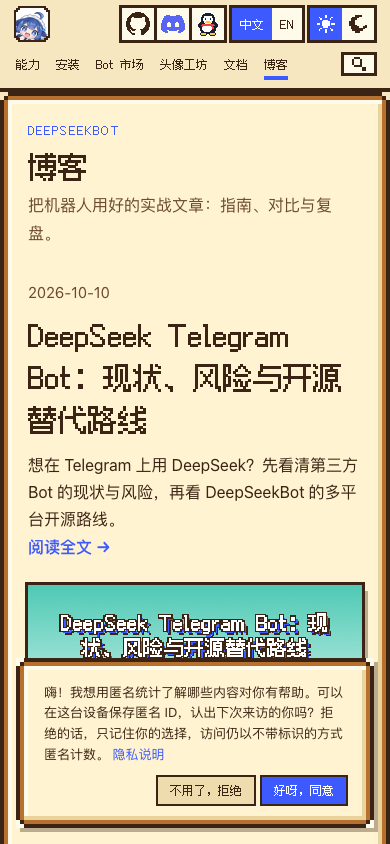
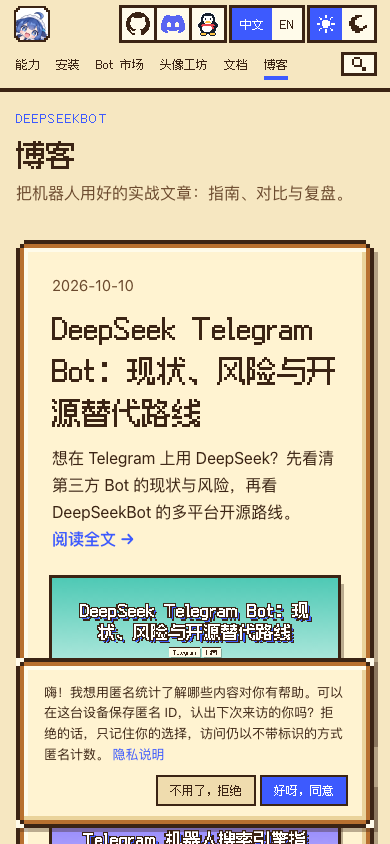
Blog: second guide post, framed cards, deterministic hero order

Changed region(s): [[0.0, 0.0924, 1.0, 1.0], [0.1231, 0.955, 0.8923, 1.0]]

diff --git a/scripts/blog.ts b/scripts/blog.ts
@@ -134,7 +134,9 @@ export function readPosts(lang: Lang): Post[] {
   }
   return files
     .map((f) => parsePost(f.replace(/\.md$/, ''), readFileSync(`${dir}/${f}`, 'utf8')))
-    .toSorted((a, b) => (a.date < b.date ? 1 : -1));
+    .toSorted((a, b) =>
+      a.date !== b.date ? (a.date < b.date ? 1 : -1) : a.slug.localeCompare(b.slug),
+    );
 }
 
 /** Minutes to read: ~400 CJK characters or ~200 English words per minute. */
@@ -287,7 +289,7 @@ function shell(
 
 function card(lang: Lang, post: Post) {
   const cover = coverFor(lang, post.slug);
-  return `<li class="blog-card"><a href="${blogPostPath(lang, post.slug)}">${
+  return `<li class="blog-card frame"><a href="${blogPostPath(lang, post.slug)}">${
     cover
       ? `<img src="${cover}" alt="" loading="lazy" />`
       : `<span class="blog-card-fallback" aria-hidden="true"></span>`
@@ -299,7 +301,7 @@ function indexMain(lang: Lang, posts: Post[]) {
   const [hero, ...rest] = posts;
   const heroCover = hero ? coverFor(lang, hero.slug) : null;
   const heroBlock = hero
-    ? `<section class="blog-hero"><div><time datetime="${hero.date}">${hero.date}</time><h2><a href="${blogPostPath(lang, hero.slug)}">${escape(hero.title)}</a></h2><p>${escape(hero.description)}</p><p><a class="blog-readmore" href="${blogPostPath(lang, hero.slug)}">${t.readMore} →</a></p></div>${
+    ? `<section class="blog-hero frame"><div><time datetime="${hero.date}">${hero.date}</time><h2><a href="${blogPostPath(lang, hero.slug)}">${escape(hero.title)}</a></h2><p>${escape(hero.description)}</p><p><a class="blog-readmore" href="${blogPostPath(lang, hero.slug)}">${t.readMore} →</a></p></div>${
         heroCover
           ? `<a href="${blogPostPath(lang, hero.slug)}"><img src="${heroCover}" alt="" /></a>`
           : ''
@@ -311,7 +313,7 @@ function indexMain(lang: Lang, posts: Post[]) {
   void nav;
   return `<div class="blog-index-layout">
       <main id="main" class="docs-main">
-        <article class="docs-article frame">
+        <article class="docs-article">
           <p class="kicker">DeepSeekBot</p>
           <h1>${t.title}</h1>
           <p class="docs-lead">${t.lead}</p>
@@ -321,7 +323,7 @@ function indexMain(lang: Lang, posts: Post[]) {
           <ul class="blog-index">${posts
             .map(
               (p) =>
-                `<li><time datetime="${p.date}">${p.date}</time> · <a href="${blogPostPath(lang, p.slug)}">${escape(p.title)}</a><p>${escape(p.description)}</p></li>`,
+                `<li class="frame blog-index-row"><time datetime="${p.date}">${p.date}</time> · <a href="${blogPostPath(lang, p.slug)}">${escape(p.title)}</a><p>${escape(p.description)}</p></li>`,
             )
             .join('')}</ul>
         </article>

diff --git a/src/docs.css b/src/docs.css
@@ -917,3 +917,11 @@
   text-transform: uppercase;
   margin: 0 0 10px;
 }
+.blog-hero.frame,
+.blog-card.frame,
+.blog-index-row.frame {
+  padding: 20px 24px;
+}
+.blog-cards .blog-card a {
+  gap: 10px;
+}

diff --git a/content/blog/en/telegram-search-guide.md b/content/blog/en/telegram-search-guide.md
@@ -1,0 +1,32 @@
+---
+{
+  "title": "Telegram Search Engine Bots: Finding Anything with a Bot",
+  "description": "Telegram hides a whole layer of search-engine bots. This guide covers finding channels, files and answers with them, and dodging the traps.",
+  "date": "2026-10-10",
+  "tags": ["Telegram", "Guide"]
+}
+---
+
+Telegram is more than a messenger: it runs a whole layer of search-engine bots that find channels, groups, files and answers, each handled by a specialist bot.
+
+## Three kinds of bots
+
+- **Network search**: finds channels and groups across Telegram. Throw in keywords, get heat-ranked results.
+- **File retrieval**: finds documents, ebooks and installers. Stick to reputable veteran bots; do not add every newcomer.
+- **Q&A**: bots wired to large models, usable as a search engine when you want a one-line answer.
+
+## Find it in three steps
+
+1. Decide whether you want a channel, a file or an answer, then pick the right category.
+2. Rotate two or three keywords. If one search fails, rephrase instead of hammering the same bot.
+3. Read the pinned post and bio before joining; check size and format before downloading; cross-check answers with a second bot.
+
+## The avoid list
+
+- Anything asking for payment or prepayment first: block it.
+- Anything asking for your verification code or a click on a strange link: that is phishing, not service.
+- Anything named after a famous model with no official backing: treat it as an unknown third party.
+
+## Where DeepSeekBot fits
+
+DeepSeekBot is the open-source multi-platform bot setup, already running on WeChat, QQ, Lark, Slack and Discord: one bot identity with memory, scheduled work, and Git-inspectable records. Telegram support status is tracked in the open, and content discovery will be among its first capabilities there.

diff --git a/content/blog/zh/telegram-search-guide.md b/content/blog/zh/telegram-search-guide.md
@@ -1,0 +1,32 @@
+---
+{
+  "title": "Telegram 机器人搜索引擎指南：用 Bot 找到任何内容",
+  "description": "Telegram 藏着一整套机器人搜索引擎。这篇指南讲怎么用它们找频道、找文件、找答案，以及怎么避开坑。",
+  "date": "2026-10-10",
+  "tags": ["Telegram", "指南"]
+}
+---
+
+Telegram 不只是聊天软件，它里面跑着一整套机器人搜索引擎：找频道、找群组、找文件、找答案，都有专门的 Bot 干这个活。
+
+## 先分清三类机器人
+
+- **站内搜索类**：在 Telegram 全网里帮你找频道和群组，关键字一扔，结果按热度排好。
+- **文件检索类**：找文档、找电子书、找安装包，认准有口碑的老 Bot，别见新就加。
+- **问答类**：直连大模型的 Bot，当搜索引擎用，适合要一句话答案的场景。
+
+## 三步找到你要的
+
+1. 先想清楚你要的是频道、文件还是答案，选对类别再动手。
+2. 用两到三个关键词轮着搜，一次搜不到就换词，别跟一个 Bot 死磕。
+3. 进频道先看置顶和简介，文件先看大小和格式，答案多问两个 Bot 交叉验证。
+
+## 避坑清单
+
+- 要你先转账、先生 Day 付费的，直接拉黑。
+- 让你发验证码、点陌生链接的，是盗号不是服务。
+- 名字带知名模型但没有任何官方背书的，按第三方小作坊对待。
+
+## DeepSeekBot 在哪
+
+DeepSeekBot 是开源的多平台机器人方案，已经跑在微信、QQ、Lark、Slack、Discord 上：同一个 Bot 身份带记忆，能定时干活，记录进 Git 可查。Telegram 的接入状态公开可查，落地后这类“找内容”的活会是第一批能力。
